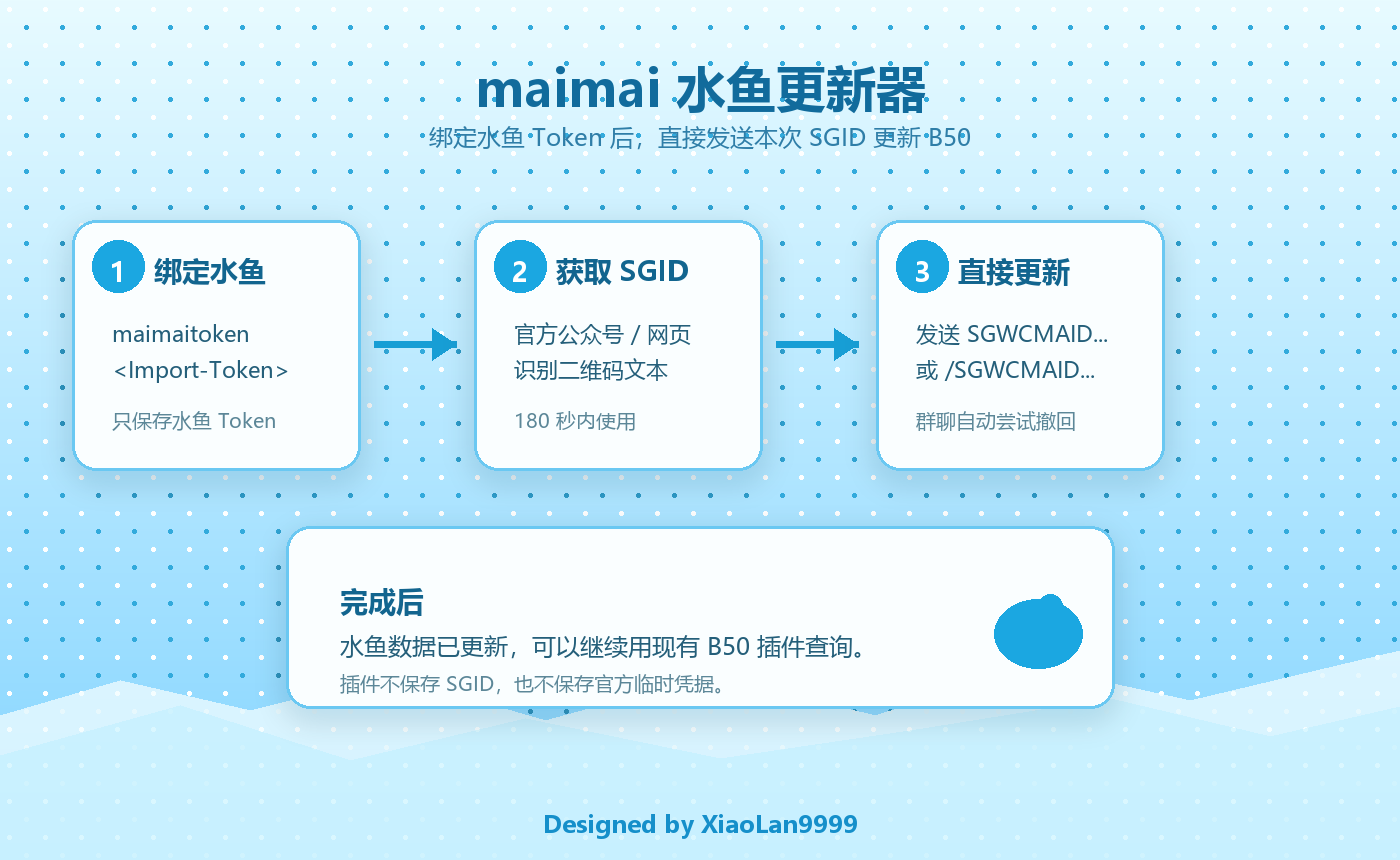
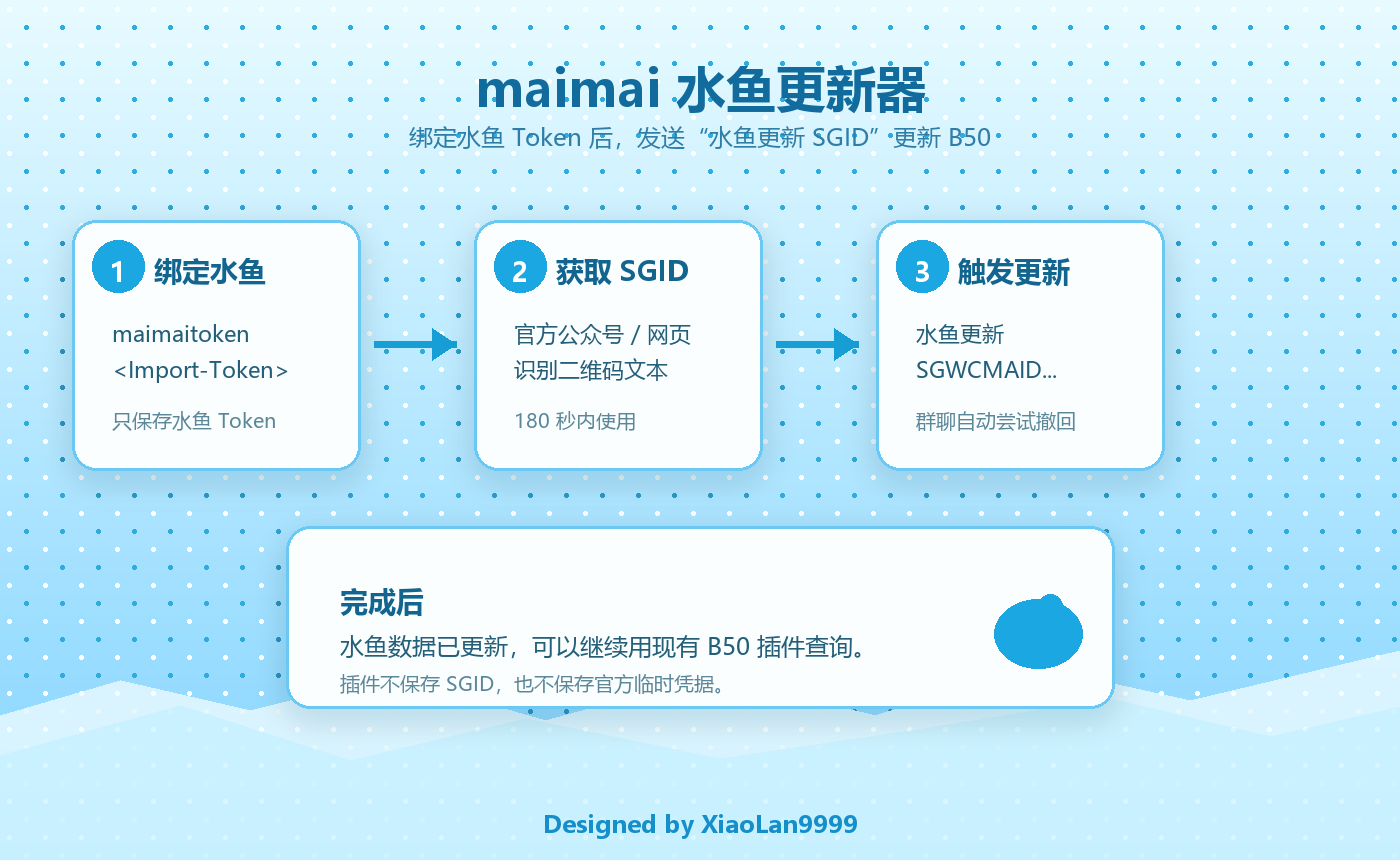
Require explicit text trigger for SGID updates

Changed region(s): [[0.2764, 0.1512, 0.7064, 0.1814], [0.645, 0.3628, 0.7679, 0.4535], [0.6757, 0.3023, 0.7371, 0.3326]]

diff --git a/main.py b/main.py
@@ -26,7 +26,7 @@ from .utils import (
     "astrbot_plugin_maimai_updater",
     "User",
     "使用一次性舞萌官方二维码凭据，把机台成绩同步到水鱼。",
-    "0.3.0",
+    "0.3.1",
     "",
 )
 class MaimaiUpdaterPlugin(Star):
@@ -38,7 +38,8 @@ class MaimaiUpdaterPlugin(Star):
         data_dir = StarTools.get_data_dir(plugin_name="astrbot_plugin_maimai_updater")
         self.store = UserStore(data_dir)
 
-        self.sgid_update_prefix = str(self.config.get("sgid_update_prefix", "") or "").strip()
+        self.enable_text_update_trigger = bool(self.config.get("enable_text_update_trigger", True))
+        self.text_update_command = str(self.config.get("text_update_command", "水鱼更新") or "水鱼更新").strip()
         self.enable_clear_command = bool(self.config.get("enable_clear_command", True))
         self.warn_unsupported_recall = bool(self.config.get("warn_unsupported_recall", True))
         self.service = MaimaiService(
@@ -78,17 +79,22 @@ class MaimaiUpdaterPlugin(Star):
             return
         await self._send_text(event, "🔒 已尝试撤回消息，如果没撤回请手动撤回。")
 
-    def _extract_direct_update_sgid(self, text: str) -> str | None:
+    def _text_update_example(self) -> str:
+        command_text = self.text_update_command or "水鱼更新"
+        return f"{command_text} SGWCMAID..."
+
+    def _extract_text_update_sgid(self, text: str) -> str | None:
+        if not self.enable_text_update_trigger:
+            return None
         content = (text or "").strip()
         if not content:
             return None
-        if self.sgid_update_prefix:
-            if not content.startswith(self.sgid_update_prefix):
-                return None
-            content = content[len(self.sgid_update_prefix):].strip()
-        if not content.upper().startswith("SGWCMAID"):
+        command_text = self.text_update_command or "水鱼更新"
+        if not content.startswith(command_text):
             return None
-        return extract_sgid(content)
+        rest = content[len(command_text):].strip()
+        rest = rest.lstrip(":：").strip()
+        return extract_sgid(rest)
 
     def _validate_sgid_for_one_time_use(self, sgid: str) -> str:
         freshness = validate_sgid_freshness(
@@ -194,18 +200,16 @@ class MaimaiUpdaterPlugin(Star):
         await self._send_text(
             event,
             f"✅ 水鱼 Token 绑定成功：{mask_secret(token)}\n"
-            "之后发送本次官方二维码识别出的 SGID 即可更新 B50。",
+            f"之后发送 {self._text_update_example()} 即可更新 B50。",
         )
 
     @command("maimaiupdate", alias={"更新水鱼", "更新b50"})
     async def update_scores(self, event: AstrMessageEvent, sgid_text: str = ""):
         sgid = extract_sgid(sgid_text or "")
         if not sgid:
-            prefix = self.sgid_update_prefix
-            example = f"{prefix}SGWCMAID..." if prefix else "SGWCMAID..."
             return self._message(
                 "用法：maimaiupdate <SGID>\n"
-                f"更简单的方式：直接发送 {example} 即可更新。"
+                f"也可以发送：{self._text_update_example()}"
             )
 
         await self._recall_current_message(event)
@@ -256,10 +260,11 @@ class MaimaiUpdaterPlugin(Star):
     @command("maimaistatus", alias={"水鱼状态"})
     async def status(self, event: AstrMessageEvent):
         record = self.store.get(self._user_key(event))
-        prefix = self.sgid_update_prefix
-        trigger = f"{prefix}SGWCMAID..." if prefix else "SGWCMAID..."
         lines = ["📋 maimai 水鱼更新状态"]
-        lines.append(f"SGID 更新触发：{trigger}")
+        text_trigger = "开启" if self.enable_text_update_trigger else "关闭"
+        lines.append(f"文本更新触发：{text_trigger}")
+        if self.enable_text_update_trigger:
+            lines.append(f"文本触发用法：{self._text_update_example()}")
         lines.append("官方 SGID：不保存，每次更新都需要临时提供")
         lines.append(f"水鱼 Token：{mask_secret(record.divingfish_import_token)}")
         if record.player_name or record.rating:
@@ -278,8 +283,8 @@ class MaimaiUpdaterPlugin(Star):
         return self._message("当前没有保存的绑定信息。")
 
     @event_message_type(EventMessageType.ALL)
-    async def handle_direct_sgid_update(self, event: AstrMessageEvent):
-        sgid = self._extract_direct_update_sgid(event.message_str or "")
+    async def handle_text_sgid_update(self, event: AstrMessageEvent):
+        sgid = self._extract_text_update_sgid(event.message_str or "")
         if not sgid:
             return
 

diff --git a/tools/render_flow_image.py b/tools/render_flow_image.py
@@ -96,7 +96,7 @@ def main() -> None:
     mark_font = load_font(24, bold=True)
 
     centered(draw, "maimai 水鱼更新器", 54, title_font, (17, 107, 156, 255))
-    centered(draw, "绑定水鱼 Token 后，直接发送本次 SGID 更新 B50", 120, subtitle_font, (47, 126, 168, 255))
+    centered(draw, "绑定水鱼 Token 后，发送“水鱼更新 SGID”更新 B50", 120, subtitle_font, (47, 126, 168, 255))
 
     def rounded_rect_with_shadow(box: tuple[int, int, int, int], radius: int = 24) -> None:
         x1, y1, x2, y2 = box
@@ -131,7 +131,7 @@ def main() -> None:
     arrow(374, 344, 456)
     card(474, 220, 2, "获取 SGID", "官方公众号 / 网页", "识别二维码文本", "180 秒内使用")
     arrow(776, 344, 858)
-    card(876, 220, 3, "直接更新", "发送 SGWCMAID...", "或 /SGWCMAID...", "群聊自动尝试撤回")
+    card(876, 220, 3, "触发更新", "水鱼更新", "SGWCMAID...", "群聊自动尝试撤回")
 
     rounded_rect_with_shadow((286, 526, 1114, 708))
     draw.text((340, 581), "完成后", font=card_title_font, fill=(18, 101, 143, 255))

diff --git a/README.md b/README.md
@@ -7,22 +7,28 @@
 ## 功能
 
 - `maimaitoken <Import-Token>` / `水鱼token`：保存用户自己的水鱼 Import-Token。
-- 直接发送 `SGWCMAID...`：用这次官方二维码拉取成绩并更新水鱼。
-- `maimaiupdate <SGID>` / `更新水鱼` / `更新b50`：等价于直接发送 SGID，保留给需要显式命令的场景。
+- `水鱼更新 SGWCMAID...`：用这次官方二维码拉取成绩并更新水鱼。
+- `maimaiupdate <SGID>` / `更新水鱼` / `更新b50`：等价的 AstrBot 命令触发方式。
 - `maimaiclear 确认清空` / `清空水鱼 确认清空`：向水鱼发送清空成绩请求，用于误用他人 SGID 后手动处理。
 - `maimaistatus` / `水鱼状态`：查看 token 绑定状态、最近同步结果和当前 SGID 触发方式。
 - `maimaiunbind` / `水鱼解绑`：删除当前用户保存的水鱼 Token 和本地展示状态。
 
 命令名已去除下划线。插件不再提供 `maimai_bind`，因为官方 SGID 只适合一次性使用，每次更新都需要用户重新提供新的二维码识别文本。
 
-## SGID 触发前缀
+## SGID 更新触发
 
-插件配置里可以设置 `sgid_update_prefix`：
+插件不会响应裸 `SGWCMAID...`，避免误触发或和其它插件冲突。默认用法是：
 
-- 留空：用户直接发送 `SGWCMAID...` 就会更新。
-- 填 `/`：用户需要发送 `/SGWCMAID...` 才会更新。
+```text
+水鱼更新 SGWCMAID...
+```
 
-这个前缀只影响“直发 SGID 更新”，不改变 AstrBot 自身的命令前缀规则。
+插件配置里可以调整：
+
+- `enable_text_update_trigger`：开启/关闭“水鱼更新 SGID”这种普通文本触发。
+- `text_update_command`：修改文本触发词，默认是 `水鱼更新`。
+
+如果关闭文本触发，仍可使用 AstrBot 命令 `maimaiupdate <SGID>`。
 
 ## 安全说明
 